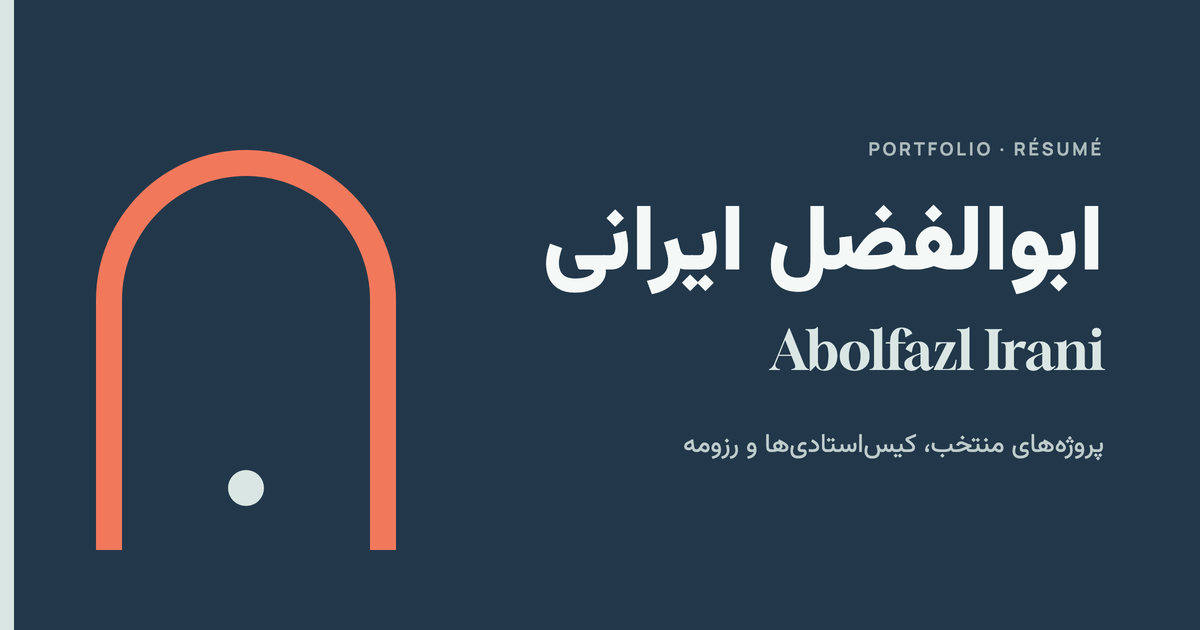
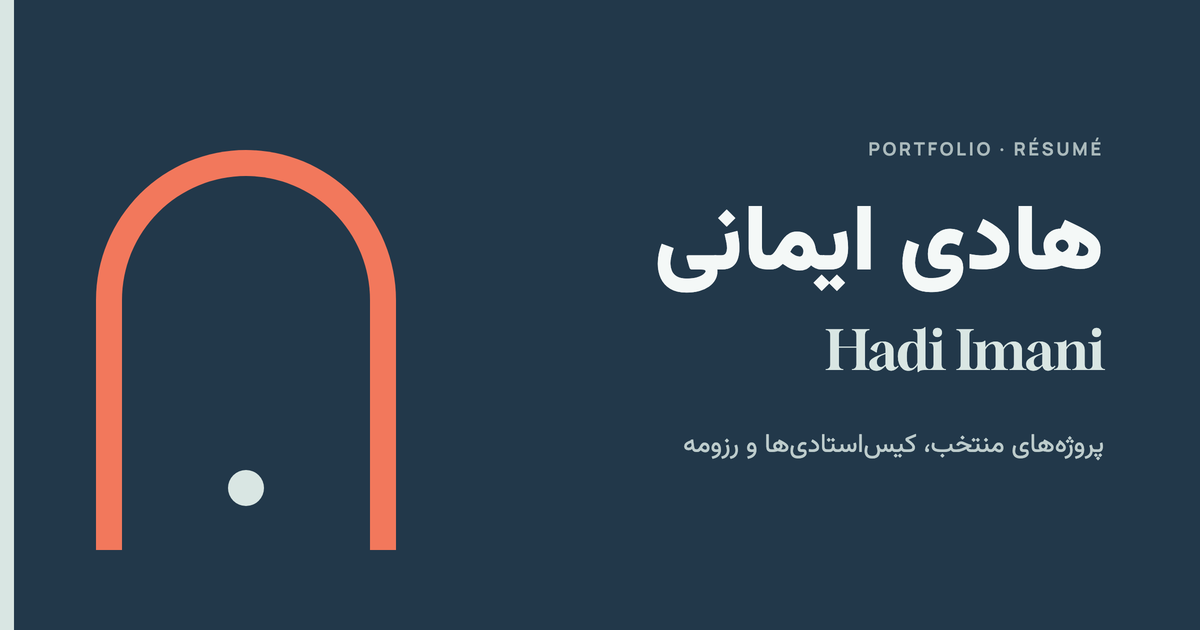
Rename to Hadi Imani and derive the Pages base path from the repo
- Site owner is Hadi Imani (هادی ایمانی); share image re-rendered
- PAGES_BASE_PATH replaces the hard-coded /portfolio; the workflow sets
  it and NEXT_PUBLIC_SITE_URL from the repository name, so the same
  workflow publishes to https://<owner>.github.io/<repo>/
- README documents the deploy and how to try the export locally

Changed region(s): [[0.4317, 0.3016, 0.925, 0.4825], [0.6475, 0.5127, 0.8633, 0.6032]]

diff --git a/next.config.ts b/next.config.ts
@@ -2,11 +2,12 @@ import type { NextConfig } from "next";
 
 /**
  * GITHUB_PAGES=true builds a static export for GitHub Pages, served from
- * https://<user>.github.io/portfolio/. Local `next dev` / `next start` keep the server
- * features (image optimisation, redirects) and no base path.
+ * https://<owner>.github.io/<repo>/ — PAGES_BASE_PATH is "/<repo>" (empty for a
+ * <owner>.github.io repo); the workflow sets both. Local `next dev` / `next start` keep the
+ * server features (image optimisation, redirects) and no base path.
  */
 const pages = process.env.GITHUB_PAGES === "true";
-const basePath = pages ? "/portfolio" : "";
+const basePath = pages ? (process.env.PAGES_BASE_PATH ?? "") : "";
 
 const nextConfig: NextConfig = {
   ...(pages ? { output: "export" as const, basePath, trailingSlash: true } : {}),

diff --git a/src/components/ProjectShowcase.tsx b/src/components/ProjectShowcase.tsx
@@ -319,7 +319,7 @@ export default function ProjectShowcase({ locale, slides: slidesProp }: Props) {
     document.querySelector('meta[name="theme-color"]')?.setAttribute("content", slides[active].theme.bg);
     const want = active === 0 ? null : slides[active].slug;
     if (new URLSearchParams(window.location.search).get("p") === want) return;
-    // `pathname` has no base path, so this also works under /portfolio on GitHub Pages.
+    // `pathname` has no base path, so this also works under a GitHub Pages sub-path.
     const id = window.setTimeout(() => {
       if (!m.current.leaving) router.replace(want ? `${pathname}?p=${want}` : pathname, { scroll: false });
     }, 350);

diff --git a/src/content/site.ts b/src/content/site.ts
@@ -10,9 +10,9 @@ import type { Localized } from "@/lib/i18n";
 import type { ExperienceItem, Maybe, SocialLink } from "./types";
 
 export const site = {
-  name: { fa: "ابوالفضل ایرانی", en: "Abolfazl Irani" } as Localized,
+  name: { fa: "هادی ایمانی", en: "Hadi Imani" } as Localized,
   /** Short first name used in the About greeting. */
-  firstName: { fa: "ابوالفضل", en: "Abolfazl" } as Localized,
+  firstName: { fa: "هادی", en: "Hadi" } as Localized,
 
   role: null as Maybe<Localized>,
   location: null as Maybe<Localized>,

diff --git a/public/index.html b/public/index.html
@@ -2,12 +2,12 @@
 <html lang="fa" dir="rtl">
 <head>
   <meta charset="utf-8">
-  <title>ابوالفضل ایرانی — پورتفولیو</title>
+  <title>هادی ایمانی — پورتفولیو</title>
   <meta name="robots" content="noindex">
   <meta http-equiv="refresh" content="0; url=fa/">
   <script>location.replace("fa/" + location.search + location.hash);</script>
 </head>
 <body>
-  <a href="fa/">ابوالفضل ایرانی — پورتفولیو</a>
+  <a href="fa/">هادی ایمانی — پورتفولیو</a>
 </body>
 </html>

diff --git a/design/og.html b/design/og.html
@@ -34,8 +34,8 @@
   <div class="dot"></div>
   <div class="text">
     <p class="label">Portfolio · Résumé</p>
-    <h1>ابوالفضل ایرانی</h1>
-    <p class="en">Abolfazl Irani</p>
+    <h1>هادی ایمانی</h1>
+    <p class="en">Hadi Imani</p>
     <p class="line">پروژههای منتخب، کیساستادیها و رزومه</p>
   </div>
 </body>

diff --git a/README.md b/README.md
@@ -1,4 +1,4 @@
-# Abolfazl Irani — Portfolio & Résumé
+# Hadi Imani — Portfolio & Résumé
 
 A bilingual (Persian default, English) portfolio site with a full-screen project gallery,
 case studies and a printable résumé. Layout, typography scale and motion follow the
@@ -20,6 +20,18 @@ Open http://localhost:3100 (redirects to `/fa`). English lives at `/en`.
 ```bash
 npm run build && npm start   # production build
 npm run lint
+```
+
+## Deploy (GitHub Pages)
+
+`.github/workflows/deploy-pages.yml` builds a static export and publishes it on every push to
+`main` (Pages must be set to "GitHub Actions"). The base path comes from the repository name, so
+the site lives at `https://<owner>.github.io/<repo>/` — currently https://hdiiyr.github.io/hdiiyr/.
+
+To try the export locally:
+
+```bash
+GITHUB_PAGES=true PAGES_BASE_PATH=/hdiiyr npm run build   # output in out/
 ```
 
 ## Routes
